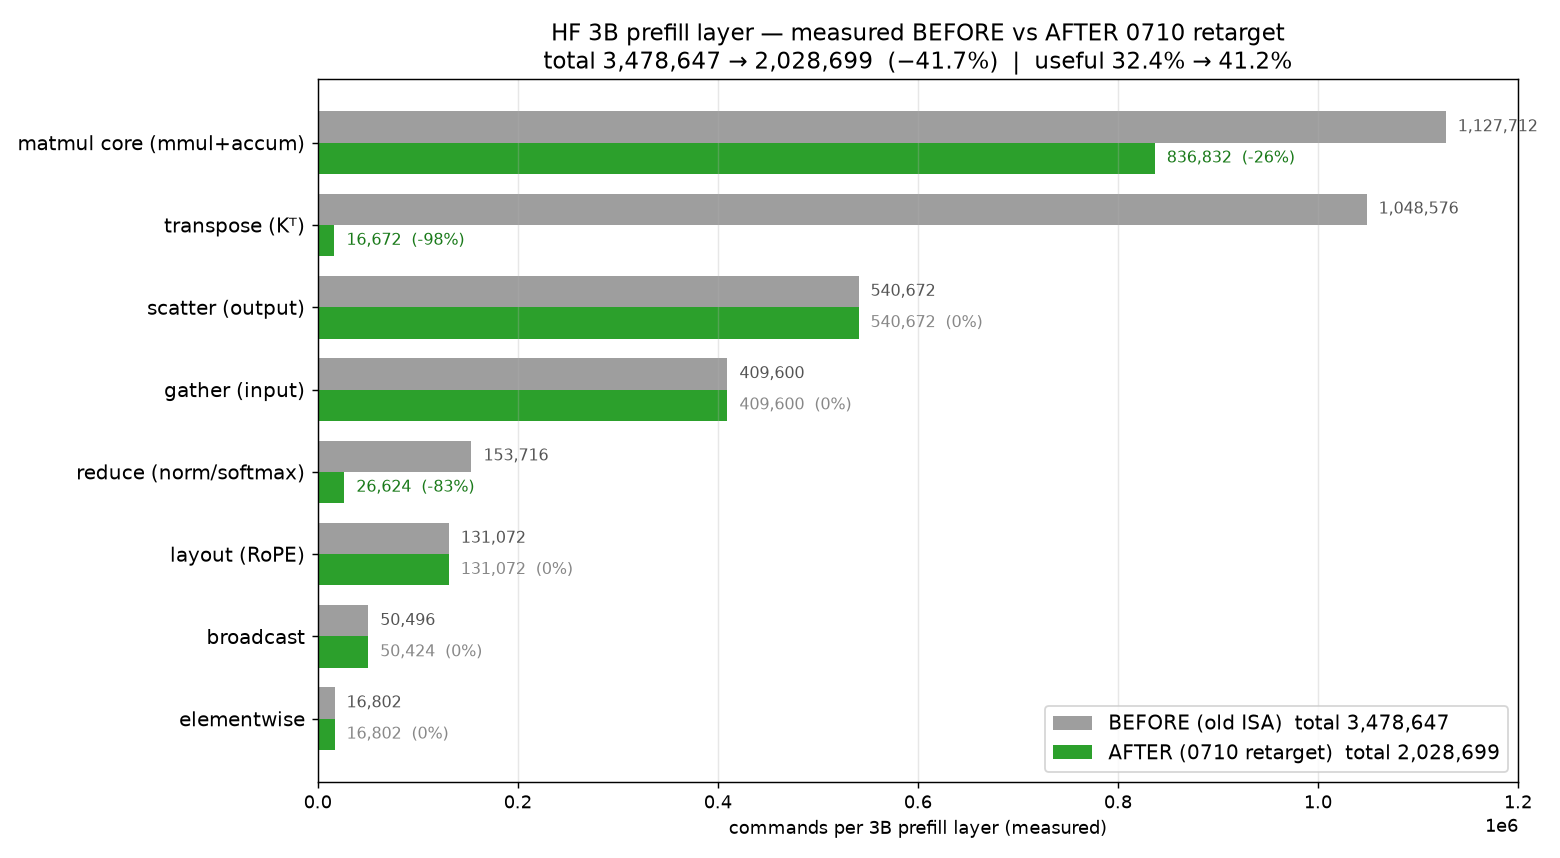
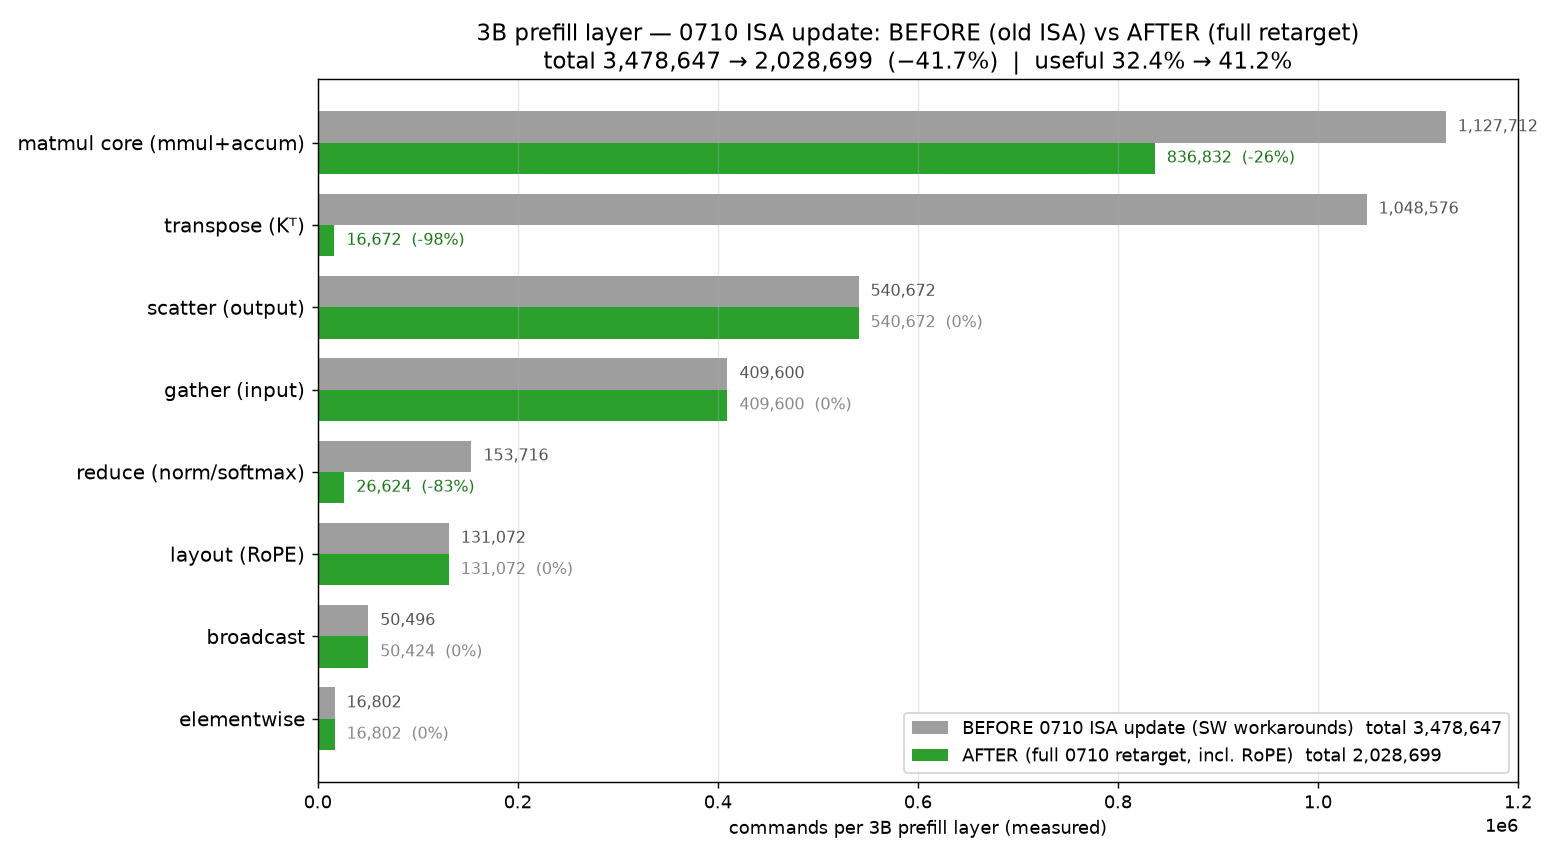
report figs: frame the before/after graph as 0710 ISA update (before vs after)
Relabel g_before_after (existing measured numbers, no re-measurement) explicitly
as "BEFORE 0710 ISA update (SW workarounds) vs AFTER (full retarget)". Remove the
g_rope graph, which compared two post-retarget states (permutation-matmul vs
sign-inv) and read as a within-retarget detail, not a before-ISA comparison;
sec 7.9 now points to the g_before_after graph for the ISA-update before/after and
keeps the RoPE isolated numbers as text.

Changed region(s): [[0.5846, 0.8182, 0.9846, 0.9091], [0.3077, 0.0, 0.8615, 0.0606]]

diff --git a/report/figs/0710/plot_before_after.py b/report/figs/0710/plot_before_after.py
@@ -24,8 +24,10 @@ y = np.arange(len(rows))[::-1]      # top-to-bottom by magnitude
 h = 0.38
 
 fig, ax = plt.subplots(figsize=(12, 6.6))
-b1 = ax.barh(y + h/2, before, h, color="#9e9e9e", label=f"BEFORE (old ISA)  total {TB:,}")
-b2 = ax.barh(y - h/2, after,  h, color="#2ca02c", label=f"AFTER (0710 retarget)  total {TA:,}")
+b1 = ax.barh(y + h/2, before, h, color="#9e9e9e",
+             label=f"BEFORE 0710 ISA update (SW workarounds)  total {TB:,}")
+b2 = ax.barh(y - h/2, after,  h, color="#2ca02c",
+             label=f"AFTER (full 0710 retarget, incl. RoPE)  total {TA:,}")
 
 for i, (bf, af) in enumerate(zip(before, after)):
     yy = y[i]
@@ -38,13 +40,13 @@ for i, (bf, af) in enumerate(zip(before, after)):
 
 ax.set_yticks(y); ax.set_yticklabels(labels, fontsize=11)
 ax.set_xlabel("commands per 3B prefill layer (measured)")
-ax.set_title(f"HF 3B prefill layer — measured BEFORE vs AFTER 0710 retarget\n"
+ax.set_title(f"3B prefill layer — 0710 ISA update: BEFORE (old ISA) vs AFTER (full retarget)\n"
              f"total {TB:,} → {TA:,}  (−{100*(1-TA/TB):.1f}%)  |  useful 32.4% → 41.2%",
              fontsize=13)
-ax.legend(loc="lower right", fontsize=11)
+ax.legend(loc="lower right", fontsize=10)
 ax.set_xlim(0, 1_200_000)
 ax.grid(axis="x", alpha=0.3)
 plt.tight_layout()
-out = "/home/chokwans99/NPU_cmodel/report/figs/g_before_after_hf_prefill.png"
+out = "/home/chokwans99/NPU_cmodel/report/figs/0710/g_before_after_hf_prefill.png"
 plt.savefig(out, dpi=130)
 print("wrote", out)
